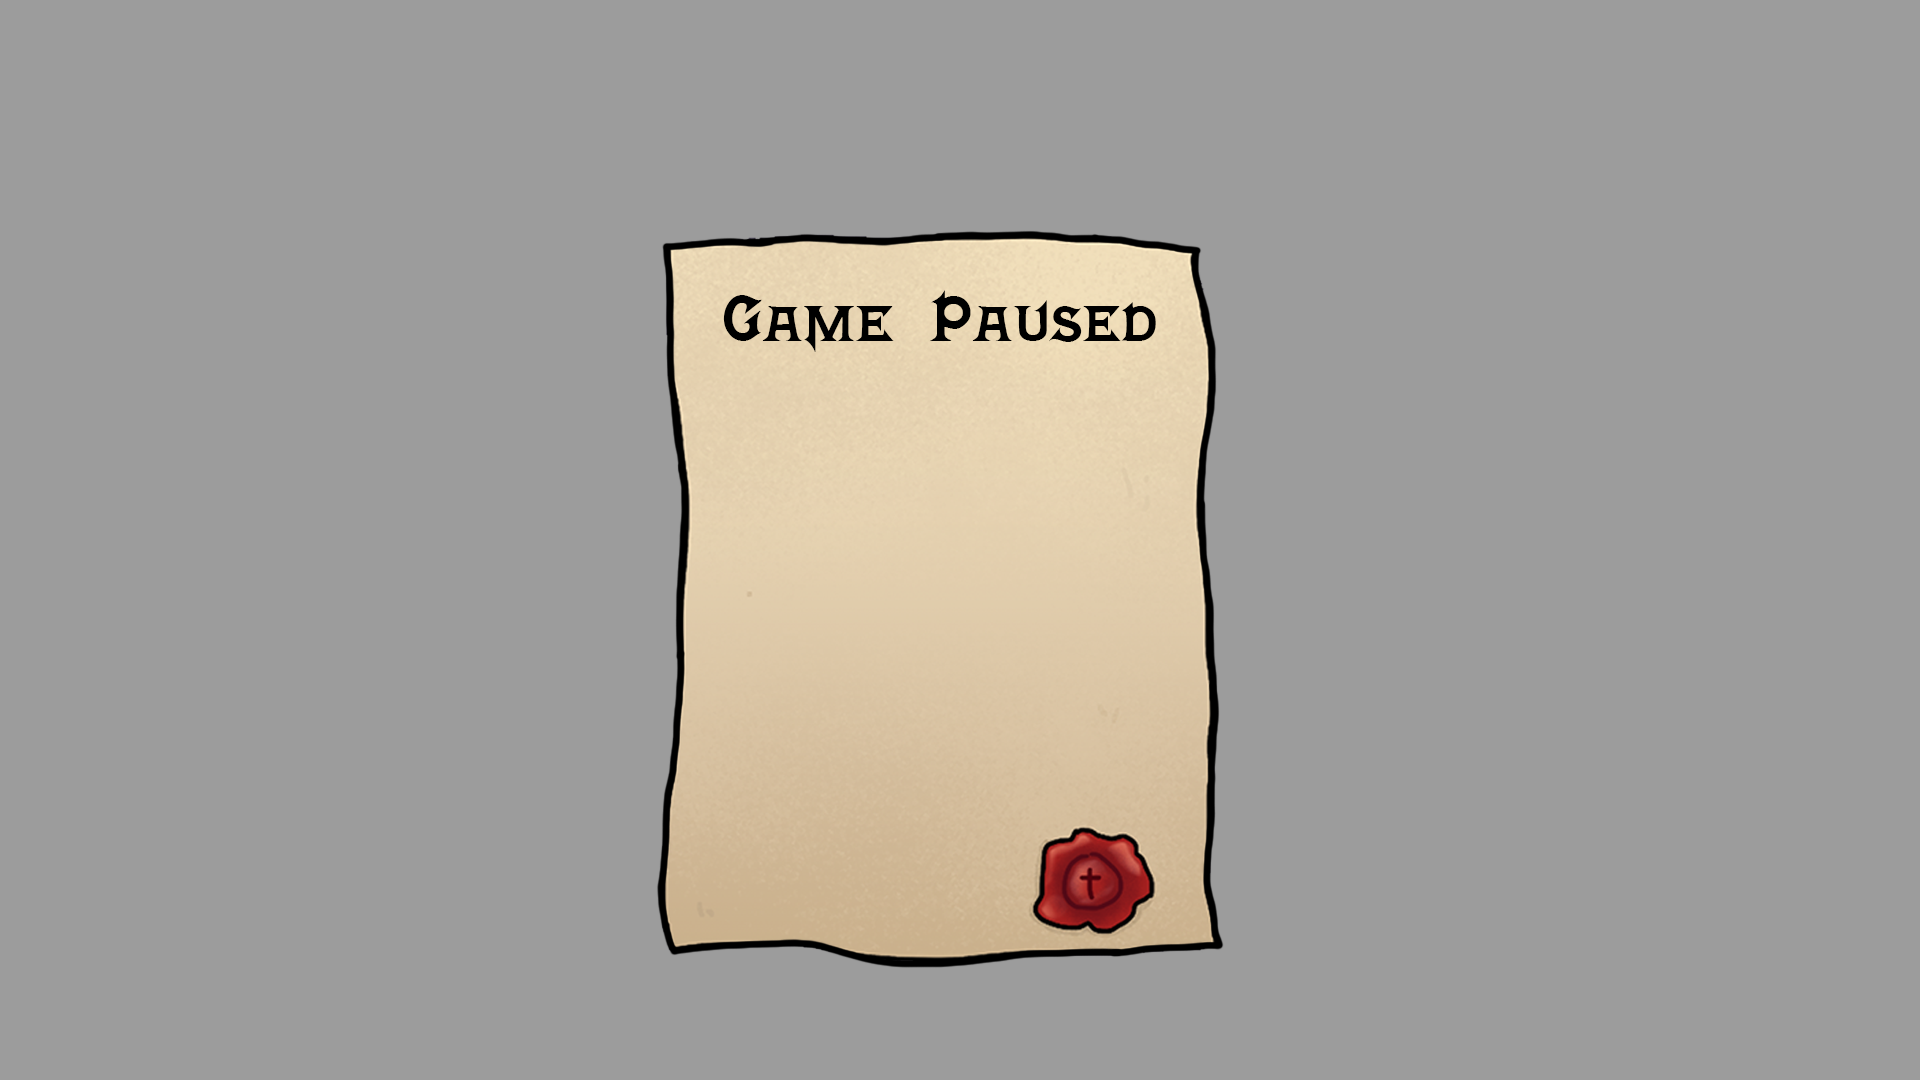
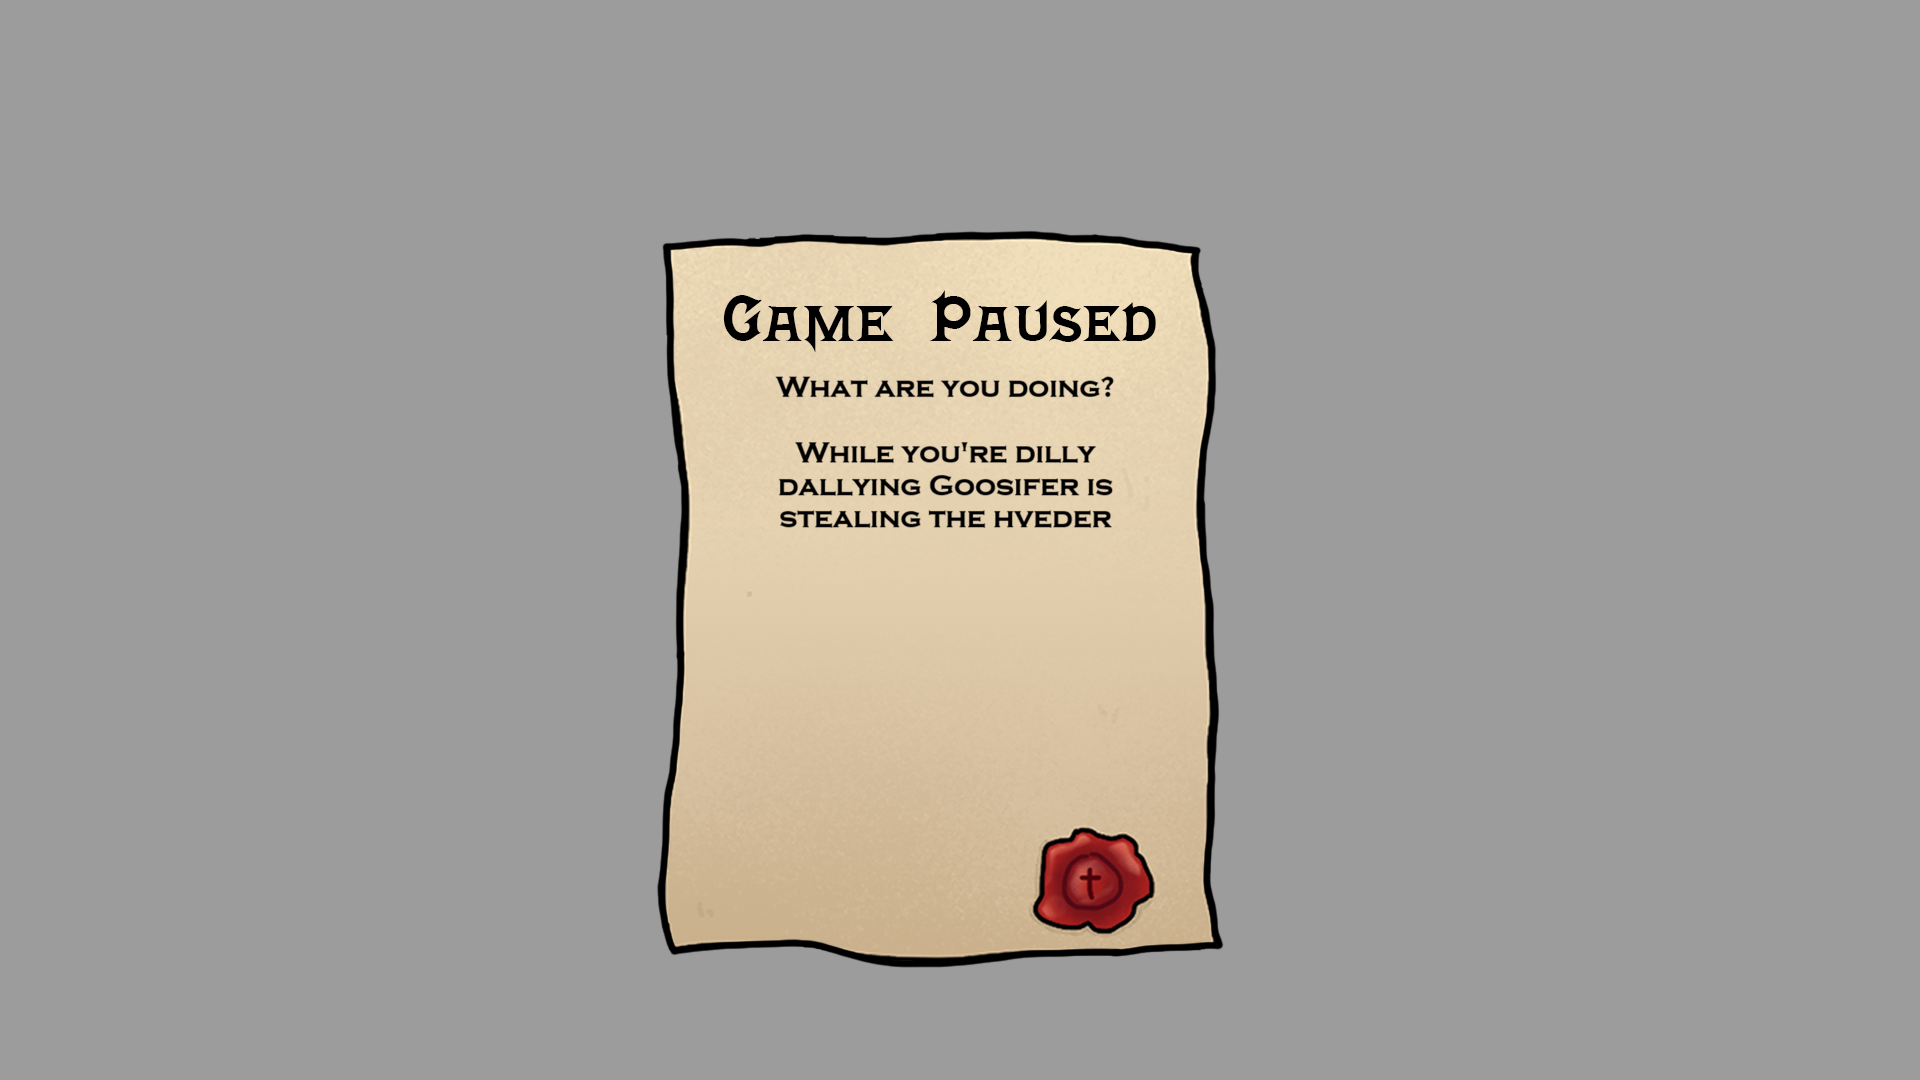
Menu screens are done

Changed region(s): [[0.4062, 0.3972, 0.5938, 0.4889], [0.4062, 0.3361, 0.5938, 0.3667]]

diff --git a/Menu.py b/Menu.py
@@ -82,19 +82,19 @@ class Button():
         self._menu = menu
         self._button_type = button_type
         self._texts: List[Button] = self._gameWorld.texts        
-        self._main_bool = False
+        self._main_menu_bool = False
         
 
         #Position of the button
         match self._button_type:
             case Button_Types.START:
-                self._pos = pygame.math.Vector2(800, 550)
+                self._pos = pygame.math.Vector2(800, 600)
             case Button_Types.EXIT:
-                self._pos = pygame.math.Vector2(1000,550)
+                self._pos = pygame.math.Vector2(1000,600)
             case Button_Types.RESTART:
-                self._pos = pygame.math.Vector2(800, 550)
+                self._pos = pygame.math.Vector2(800, 600)
             case Button_Types.RESUME:
-                self._pos = pygame.math.Vector2(800, 550)
+                self._pos = pygame.math.Vector2(800, 600)
             case Button_Types.MAIN:
                 self._pos = pygame.math.Vector2(900, 700)
             case _:
@@ -122,7 +122,7 @@ class Button():
         return self._gameObject
     
     def draw_text(self, text):
-        self._font = pygame.font.SysFont("timesnerroman", 30)
+        self._font = pygame.font.SysFont("CopperplateGothicBold", 30)
         self._text_surface = self._font.render(text, True, (0, 0, 0))
         self._text_rect = self._text_surface.get_rect()
         
@@ -136,17 +136,11 @@ class Button():
                     pygame.event.post(pygame.event.Event(pygame.QUIT))
                 case Button_Types.MAIN:
                     self._gameWorld.player_alive.is_destroyed = False
-                    self._main_bool = True
-                    self._menu.get_menu().destroy()
+                    self._main_menu_bool = True
                 case Button_Types.RESTART:
                     self._gameWorld.player_alive.is_destroyed = False
-                    self._menu.get_menu().destroy()
-                ##############################Kald Restart metoden
-                case Button_Types.START:
-                    self._menu.get_menu().destroy()
-                    ##############################Kald Restart metoden
-                case Button_Types.RESUME:
-                    self._menu.get_menu().destroy()
+
+            self._menu.get_menu().destroy()
 
             for text_and_button in self._texts:
                 text_and_button._show_text = False
@@ -158,9 +152,9 @@ class Button():
             self.draw_text(self._text)
             self._text_rect.center = self.rect.center
             self._screen.blit(self._text_surface, self._text_rect)
-        if self._main_bool == True:
-            self._main = Menu(self._gameWorld, Assets.START_MENU)
-            self._main_bool = False
+        if self._main_menu_bool == True:
+            Menu(self._gameWorld, Assets.START_MENU)
+            self._main_menu_bool = False
 
 
     def awake(self, game_world):

diff --git a/GameWorld.py b/GameWorld.py
@@ -93,7 +93,8 @@ class GameWorld:
                 pygame.event.post(pygame.event.Event(pygame.QUIT))
             if keys[pygame.K_p]:
                 self._pause = Menu(self, Assets.PAUSE)
-                self.add_menu_and_button(self._pause)
+            if keys[pygame.K_h]:
+                Menu(self, Assets.WIN_SCREEN)
             
 
             if keys[pygame.K_k]:
